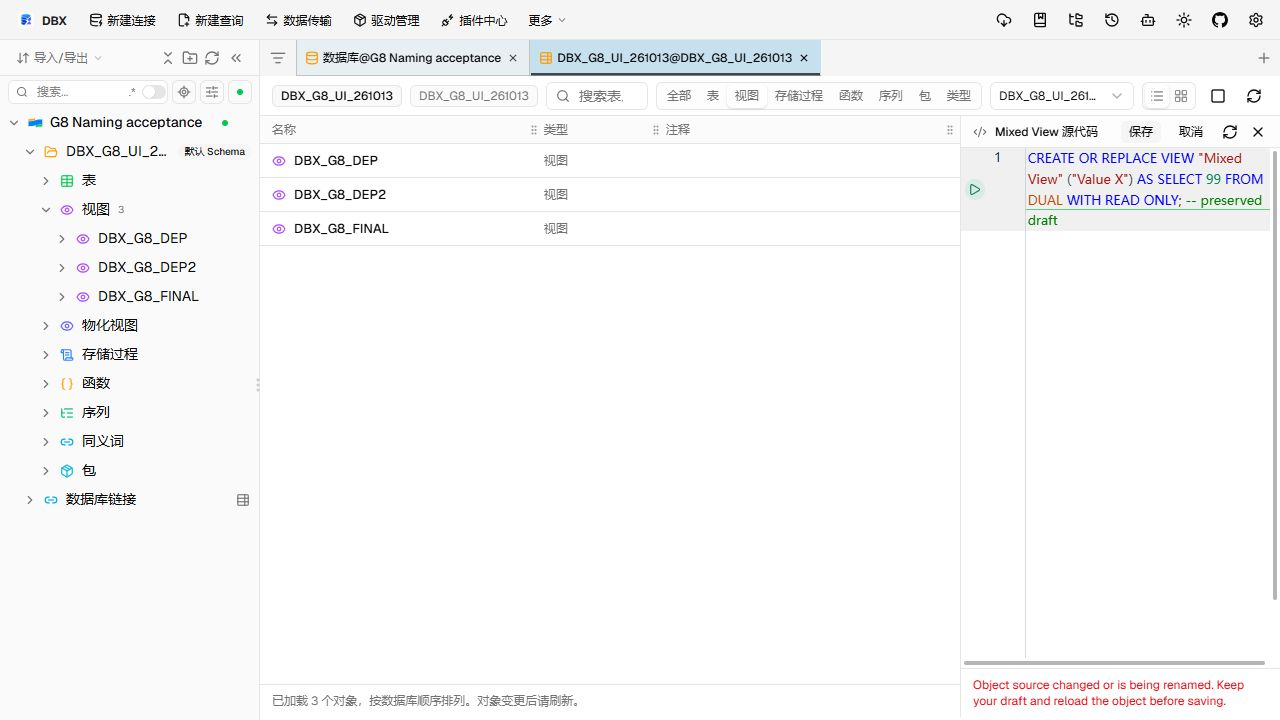
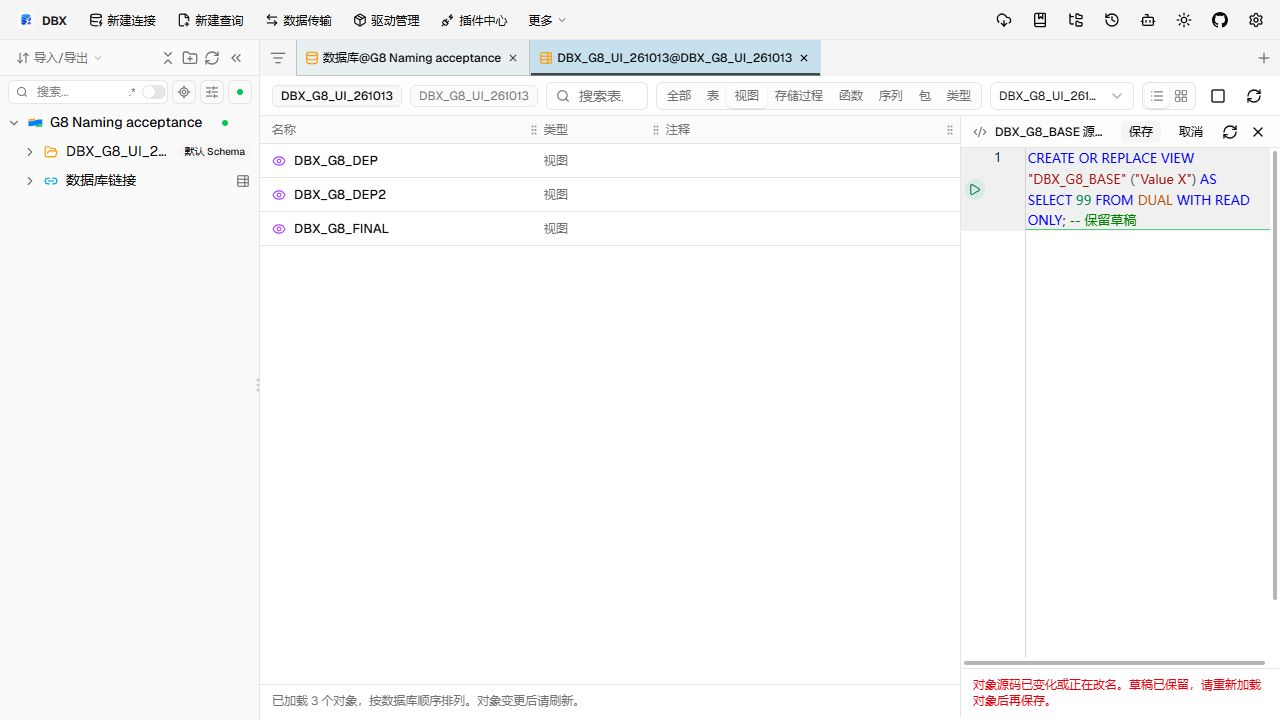
fix(i18n): localize object source rename protection

diff --git a/apps/desktop/src/lib/table/objectSourceIdentity.ts b/apps/desktop/src/lib/table/objectSourceIdentity.ts
@@ -1,3 +1,5 @@
+import i18n from "@/i18n";
+
 export interface SourceIdentity {
   connectionId: string;
   database: string;
@@ -18,7 +20,6 @@ interface SourceState {
 }
 
 const states = new Map<string, SourceState>();
-const staleMessage = "Object source changed or is being renamed. Keep your draft and reload the object before saving.";
 
 function stateFor(identity: SourceIdentity): SourceState {
   const key = JSON.stringify([identity.connectionId, identity.database, identity.schema || identity.database, identity.objectType, identity.name]);
@@ -36,13 +37,13 @@ export function captureSourceIdentity(identity: SourceIdentity): SourceIdentityS
 
 export function assertSourceIdentity(snapshot: SourceIdentitySnapshot): void {
   const state = stateFor(snapshot);
-  if (snapshot.revision !== state.revision || state.frozen || state.migrating) throw new Error(staleMessage);
+  if (snapshot.revision !== state.revision || state.frozen || state.migrating) throw new Error(i18n.global.t("objects.sourceIdentityChanged"));
 }
 
 /** Call only after a user-requested reload succeeds, with the version captured before loading. */
 export function renewSourceIdentity(snapshot: SourceIdentitySnapshot): SourceIdentitySnapshot {
   const state = stateFor(snapshot);
-  if (snapshot.revision !== state.revision || state.migrating || state.saving) throw new Error(staleMessage);
+  if (snapshot.revision !== state.revision || state.migrating || state.saving) throw new Error(i18n.global.t("objects.sourceIdentityChanged"));
   if (state.frozen) {
     state.revision++;
     state.frozen = false;
@@ -54,7 +55,7 @@ export function renewSourceIdentity(snapshot: SourceIdentitySnapshot): SourceIde
 export function beginSourceSave(snapshot: SourceIdentitySnapshot): () => void {
   assertSourceIdentity(snapshot);
   const state = stateFor(snapshot);
-  if (state.saving) throw new Error("This object source is already being saved.");
+  if (state.saving) throw new Error(i18n.global.t("objects.sourceIdentitySaving"));
   state.saving = true;
   let released = false;
   return () => {
@@ -67,7 +68,7 @@ export function beginSourceSave(snapshot: SourceIdentitySnapshot): () => void {
 /** All affected objects are checked before any is frozen. */
 export function freezeSourceIdentities(identities: SourceIdentity[]) {
   const affected = [...new Set(identities.map(stateFor))];
-  if (affected.some((state) => state.saving || state.migrating)) throw new Error("An affected object source is being saved or renamed. Wait for it to finish.");
+  if (affected.some((state) => state.saving || state.migrating)) throw new Error(i18n.global.t("objects.sourceIdentityBusy"));
   for (const state of affected) state.migrating = true;
   let dispatched = false;
   let finished = false;

diff --git a/apps/desktop/src/i18n/locales/ru.ts b/apps/desktop/src/i18n/locales/ru.ts
@@ -5150,6 +5150,9 @@ export default withEnglishFallback({
     viewRenameSuccess: "{oldName} переименован в {newName}, обновлено видимых зависимостей представлений: {count}.",
     viewRenameCoverage: "Обновляет видимые статические зависимости представлений того же владельца. Невидимые зависимости других владельцев, динамический SQL и ссылки приложений не переносятся и могут перестать работать после переименования.",
     viewRenameRefresh: "Имя или целевой объект изменились. Дождитесь обновления предварительного просмотра перед подтверждением.",
+    sourceIdentityChanged: "Исходный код объекта изменился или объект переименовывается. Сохраните черновик и перезагрузите объект перед сохранением.",
+    sourceIdentitySaving: "Исходный код этого объекта уже сохраняется.",
+    sourceIdentityBusy: "Исходный код затронутого объекта сохраняется или переименовывается. Дождитесь завершения.",
     viewRenameRecovery: "Исходные определения для проверки восстановления. Перед выполнением проверьте текущее состояние базы данных, чтобы не перезаписать параллельные изменения.",
     all: "Все",
     tables: "Таблицы",

diff --git a/apps/desktop/src/lib/__tests__/table/objectSourceIdentity.spec.ts b/apps/desktop/src/lib/__tests__/table/objectSourceIdentity.spec.ts
@@ -1,9 +1,33 @@
 import { describe, expect, it } from "vitest";
+import i18n, { loadLocaleMessages } from "@/i18n";
 import { assertSourceIdentity, beginSourceSave, captureSourceIdentity, freezeSourceIdentities, renewSourceIdentity } from "@/lib/table/objectSourceIdentity";
 
 const identity = (name: string) => ({ connectionId: "identity-test", database: "ORCL", schema: "APP", objectType: "VIEW", name });
 
 describe("object source identity", () => {
+  it("shows source-save protection in the selected Chinese locale", async () => {
+    const previous = i18n.global.locale.value;
+    await loadLocaleMessages("zh-CN");
+    i18n.global.locale.value = "zh-CN";
+    try {
+      const stale = captureSourceIdentity(identity("localized-stale"));
+      const migration = freezeSourceIdentities([stale]);
+      migration.markDispatched();
+      migration.finish();
+      expect(() => beginSourceSave(stale)).toThrow("对象源码已变化或正在改名");
+      const saving = captureSourceIdentity(identity("localized-saving"));
+      const release = beginSourceSave(saving);
+      try {
+        expect(() => beginSourceSave(saving)).toThrow("对象源码正在保存");
+        expect(() => freezeSourceIdentities([saving])).toThrow("相关对象源码正在保存或改名");
+      } finally {
+        release();
+      }
+    } finally {
+      i18n.global.locale.value = previous;
+    }
+  });
+
   it("atomically excludes saving and migration across all affected identities", () => {
     const first = captureSourceIdentity(identity("first"));
     const second = captureSourceIdentity(identity("second"));

diff --git a/apps/desktop/src/i18n/locales/ja.ts b/apps/desktop/src/i18n/locales/ja.ts
@@ -4691,6 +4691,9 @@ export default withEnglishFallback({
     viewRenameSuccess: "{oldName} を {newName} に変更し、見えるビュー依存関係を {count} 件更新しました。",
     viewRenameCoverage: "現在のユーザーに見える同一所有者の静的ビュー依存関係を更新します。見えない別所有者の依存関係、動的 SQL、アプリケーションの参照は移行されず、名前変更後に動作しなくなる可能性があります。",
     viewRenameRefresh: "名前または対象が変更されました。プレビューの更新後に確認してください。",
+    sourceIdentityChanged: "オブジェクトのソースが変更されたか、名前変更中です。下書きを保持し、保存前にオブジェクトを再読み込みしてください。",
+    sourceIdentitySaving: "このオブジェクトのソースは保存中です。",
+    sourceIdentityBusy: "対象オブジェクトのソースは保存中または名前変更中です。完了するまでお待ちください。",
     viewRenameRecovery: "復旧を検討するための元の定義です。同時変更を上書きしないよう、実行前にデータベースの現在の状態を確認してください。",
     validStatus: "VALID",
     invalidStatus: "INVALID",

diff --git a/apps/desktop/src/i18n/locales/ko.ts b/apps/desktop/src/i18n/locales/ko.ts
@@ -4684,6 +4684,9 @@ export default withEnglishFallback({
     viewRenameSuccess: "{oldName}의 이름을 {newName}(으)로 변경하고 보이는 뷰 종속성 {count}개를 업데이트했습니다.",
     viewRenameCoverage: "현재 계정에 보이는 동일 소유자의 정적 뷰 종속성을 업데이트합니다. 보이지 않는 다른 소유자의 종속성, 동적 SQL 및 애플리케이션 참조는 이전되지 않으며 이름 변경 후 실패할 수 있습니다.",
     viewRenameRefresh: "이름 또는 대상이 변경되었습니다. 미리 보기가 새로 고쳐진 후 확인하세요.",
+    sourceIdentityChanged: "객체 소스가 변경되었거나 이름 변경 중입니다. 초안을 유지하고 저장하기 전에 객체를 다시 불러오세요.",
+    sourceIdentitySaving: "이 객체의 소스를 이미 저장 중입니다.",
+    sourceIdentityBusy: "관련 객체의 소스를 저장하거나 이름을 변경 중입니다. 완료될 때까지 기다리세요.",
     viewRenameRecovery: "복구 검토용 원본 정의입니다. 동시 변경 사항을 덮어쓰지 않도록 실행 전에 현재 데이터베이스 상태를 확인하세요.",
     validStatus: "VALID",
     invalidStatus: "INVALID",

diff --git a/apps/desktop/src/i18n/locales/es.ts b/apps/desktop/src/i18n/locales/es.ts
@@ -4809,6 +4809,9 @@ export default withEnglishFallback({
     viewRenameSuccess: "Se cambió el nombre de {oldName} a {newName} y se actualizaron {count} dependencias de vistas visibles.",
     viewRenameCoverage: "Actualiza las dependencias estáticas de vistas visibles del mismo propietario. Las dependencias no visibles de otros propietarios, el SQL dinámico y las referencias de aplicaciones no se migran y pueden fallar tras el cambio de nombre.",
     viewRenameRefresh: "El nombre o el destino ha cambiado. Espere a que se actualice la vista previa antes de confirmar.",
+    sourceIdentityChanged: "El código del objeto cambió o se está renombrando. Conserve el borrador y vuelva a cargar el objeto antes de guardar.",
+    sourceIdentitySaving: "El código de este objeto ya se está guardando.",
+    sourceIdentityBusy: "El código de un objeto afectado se está guardando o renombrando. Espere a que termine.",
     viewRenameRecovery: "Definiciones originales para revisar la recuperación. Compruebe el estado actual de la base de datos antes de ejecutar para evitar sobrescribir cambios simultáneos.",
     validStatus: "VALID",
     invalidStatus: "INVALID",

diff --git a/apps/desktop/src/i18n/locales/it.ts b/apps/desktop/src/i18n/locales/it.ts
@@ -4629,6 +4629,9 @@ export default withEnglishFallback({
     viewRenameSuccess: "{oldName} rinominato in {newName}; aggiornate {count} dipendenze di viste visibili.",
     viewRenameCoverage: "Aggiorna le dipendenze statiche delle viste visibili dello stesso proprietario. Le dipendenze non visibili di altri proprietari, SQL dinamico e riferimenti delle applicazioni non vengono migrati e potrebbero non funzionare dopo la rinomina.",
     viewRenameRefresh: "Il nome o la destinazione è cambiato. Attendere l'aggiornamento dell'anteprima prima di confermare.",
+    sourceIdentityChanged: "Il codice dell'oggetto è cambiato o l'oggetto viene rinominato. Conservare la bozza e ricaricare l'oggetto prima di salvare.",
+    sourceIdentitySaving: "Il codice di questo oggetto è già in fase di salvataggio.",
+    sourceIdentityBusy: "Il codice di un oggetto interessato viene salvato o rinominato. Attendere il completamento.",
     viewRenameRecovery: "Definizioni originali per valutare il ripristino. Controllare lo stato attuale del database prima di eseguire per evitare di sovrascrivere modifiche concorrenti.",
     validStatus: "VALID",
     invalidStatus: "INVALID",

diff --git a/apps/desktop/src/i18n/locales/pt-BR.ts b/apps/desktop/src/i18n/locales/pt-BR.ts
@@ -4629,6 +4629,9 @@ export default withEnglishFallback({
     viewRenameSuccess: "{oldName} foi renomeado para {newName} e {count} dependências de views visíveis foram atualizadas.",
     viewRenameCoverage: "Atualiza as dependências estáticas de views visíveis do mesmo proprietário. Dependências invisíveis de outros proprietários, SQL dinâmico e referências de aplicativos não são migrados e podem falhar após a renomeação.",
     viewRenameRefresh: "O nome ou o destino mudou. Aguarde a atualização da prévia antes de confirmar.",
+    sourceIdentityChanged: "O código do objeto mudou ou está sendo renomeado. Preserve o rascunho e recarregue o objeto antes de salvar.",
+    sourceIdentitySaving: "O código deste objeto já está sendo salvo.",
+    sourceIdentityBusy: "O código de um objeto afetado está sendo salvo ou renomeado. Aguarde a conclusão.",
     viewRenameRecovery: "Definições originais para avaliar a recuperação. Verifique o estado atual do banco de dados antes de executar para evitar sobrescrever alterações simultâneas.",
     validStatus: "VALID",
     invalidStatus: "INVALID",

diff --git a/apps/desktop/src/i18n/locales/zh-TW.ts b/apps/desktop/src/i18n/locales/zh-TW.ts
@@ -4378,6 +4378,9 @@ export default withEnglishFallback({
     viewRenameSuccess: "已將 {oldName} 更名為 {newName}，並更新 {count} 個可見檢視相依性。",
     viewRenameCoverage: "自動更新目前帳號可見的同擁有者靜態檢視相依性。不可見的跨擁有者相依性、動態 SQL 和應用程式參照不會遷移，改名後可能失效。",
     viewRenameRefresh: "名稱或目標已變更，請等待預覽重新整理後再確認。",
+    sourceIdentityChanged: "物件原始碼已變更或正在重新命名。草稿已保留，請重新載入物件後再儲存。",
+    sourceIdentitySaving: "物件原始碼正在儲存，請等待儲存完成。",
+    sourceIdentityBusy: "相關物件原始碼正在儲存或重新命名，請等待操作完成。",
     viewRenameRecovery: "原始定義供核對復原使用；執行前請先檢查資料庫現況，避免覆寫並行修改。",
     validStatus: "VALID",
     invalidStatus: "INVALID",

diff --git a/apps/desktop/src/i18n/locales/en.ts b/apps/desktop/src/i18n/locales/en.ts
@@ -5357,6 +5357,9 @@ export default {
     viewRenameSuccess: "Renamed {oldName} to {newName} and updated {count} visible view dependencies.",
     viewRenameCoverage: "Updates visible static view dependencies owned by the same user. Invisible cross-owner dependencies, dynamic SQL and application references are not migrated and may fail after renaming.",
     viewRenameRefresh: "The name or target changed. Wait for the preview to refresh before confirming.",
+    sourceIdentityChanged: "Object source changed or is being renamed. Keep your draft and reload the object before saving.",
+    sourceIdentitySaving: "This object source is already being saved.",
+    sourceIdentityBusy: "An affected object source is being saved or renamed. Wait for it to finish.",
     viewRenameRecovery: "Original definitions for recovery review. Check the current database state before executing to avoid overwriting concurrent changes.",
     all: "All",
     tables: "Tables",

diff --git a/apps/desktop/src/i18n/locales/zh-CN.ts b/apps/desktop/src/i18n/locales/zh-CN.ts
@@ -5348,6 +5348,9 @@ export default withEnglishFallback({
     viewRenameSuccess: "已将 {oldName} 更名为 {newName}，并更新 {count} 个可见视图依赖。",
     viewRenameCoverage: "自动更新当前账号可见的同属主静态视图依赖。不可见的跨属主依赖、动态 SQL 和应用引用不会迁移，改名后可能失效。",
     viewRenameRefresh: "名称或目标已变化，请等待预览刷新后再确认。",
+    sourceIdentityChanged: "对象源码已变化或正在改名。草稿已保留，请重新加载对象后再保存。",
+    sourceIdentitySaving: "对象源码正在保存，请等待保存完成。",
+    sourceIdentityBusy: "相关对象源码正在保存或改名，请等待操作完成。",
     viewRenameRecovery: "原始定义供核对恢复使用；执行前请先检查数据库现状，避免覆盖并发修改。",
     all: "全部",
     tables: "表",

diff --git a/apps/desktop/src/components/objects/__tests__/ObjectBrowser.viewSourceSave.spec.ts b/apps/desktop/src/components/objects/__tests__/ObjectBrowser.viewSourceSave.spec.ts
@@ -52,7 +52,10 @@ vi.mock("@/stores/settingsStore", () => ({
   }),
 }));
 vi.mock("vue-i18n", () => ({ useI18n: () => ({ t: (key: string) => key, locale: ref("en-US") }) }));
-vi.mock("@/i18n", () => ({ default: { install: () => undefined } }));
+vi.mock("@/i18n", async () => {
+  const { default: en } = await import("@/i18n/locales/en");
+  return { default: { install: () => undefined, global: { t: (key: string) => en.objects[key.split(".")[1] as keyof typeof en.objects] || key } } };
+});
 vi.mock("@/composables/useSqlHighlighter", () => ({ useSqlHighlighter: () => ({ highlight: (sql: string) => sql }) }));
 vi.mock("@/composables/useToast", () => ({ useToast: () => ({ toast: mocks.toast }) }));
 vi.mock("vue-virtual-scroller", () => ({
